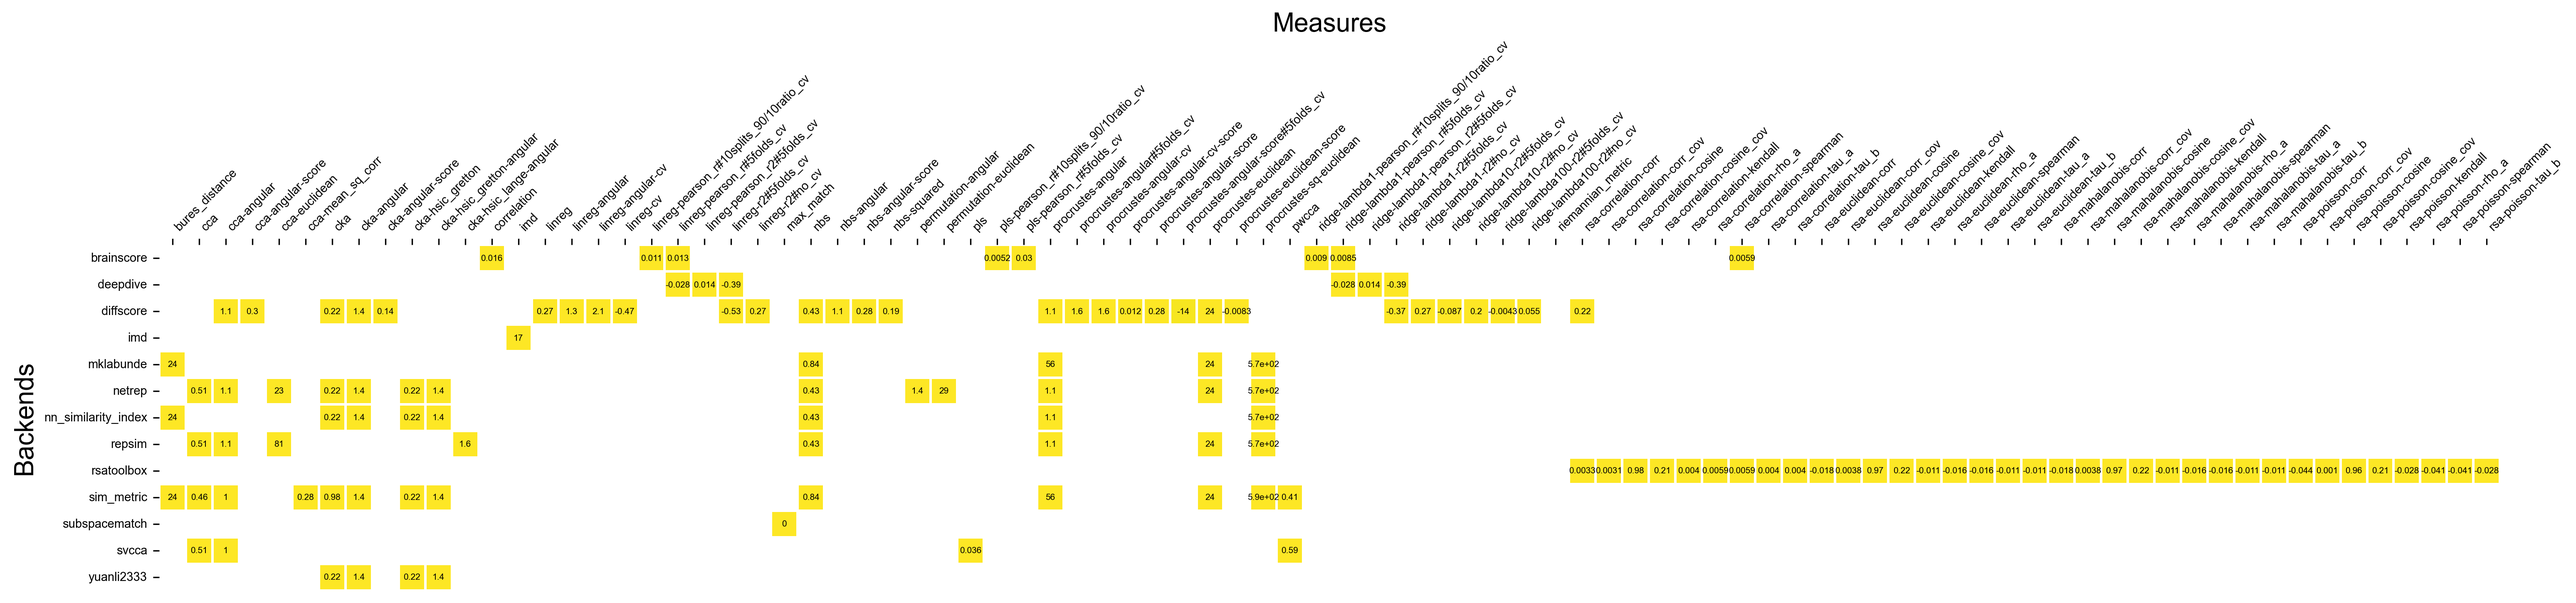
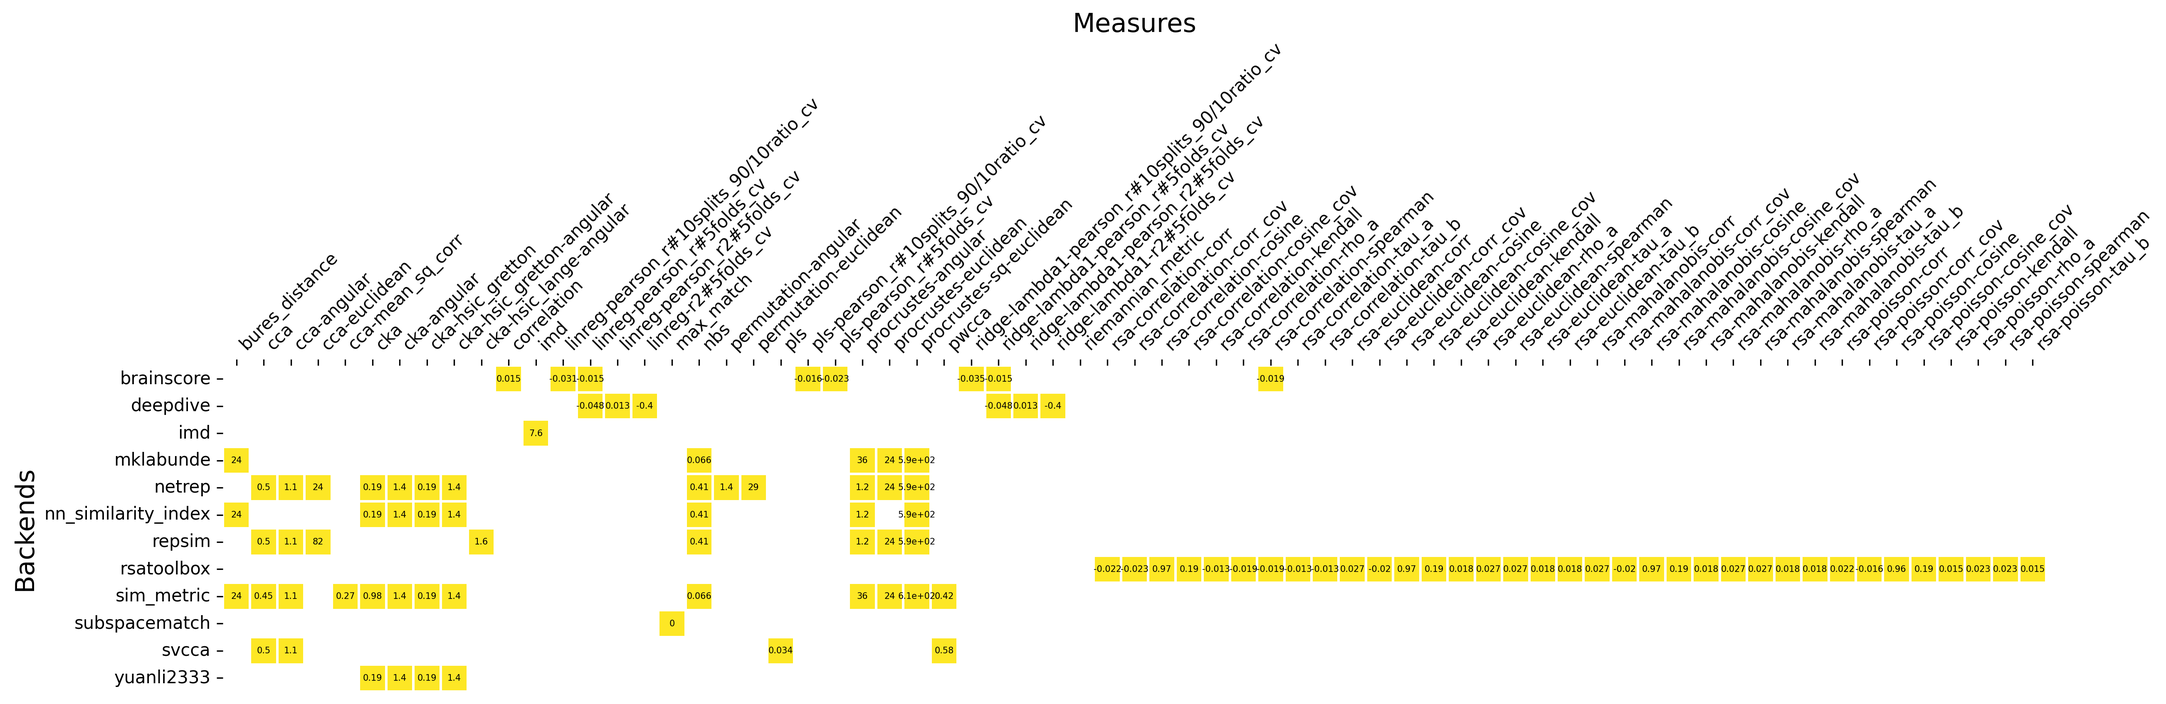
update cards

diff --git a/similarity/cards.py b/similarity/cards.py
@@ -19,23 +19,50 @@ distance_metrics = [
     "cca-angular",
 ]
 
+names = {
+    "cka": "Centered Kernel Alignment",
+    "cka-angular-score": "CKA Angular Score",
+    "procrustes-angular-score": "Procrustes Angular Score",
+    "nbs": "Normalized Bures Similarity",
+    "nbs-angular-score": "NBS Angular Score",
+    "nbs-squared": "NBS Squared",
+    "cca": "Canonical Correlation Analysis",
+    "cca-angular-score": "CCA Angular Score",
+    "rsa-correlation-corr": "Representational Similarity Analysis",
+}
 
-# default cards
-cards = defaultdict(lambda: {"props": []})
-measures = make("measure.*.*")
-for measure_id in measures.keys():
-    cards[measure_id.split(".")[-1]] = {
-        "props": []
+invariances = {
+    "cka": ["orthogonal", "isotropic-scaling"],
+    "nbs": ["orthogonal", "isotropic-scaling"],
+    "cca": ["invertible-linear"],
+}
+
+
+def make_card(measure_id):
+    props = []
+    if measure_id in score_measures:
+        props.append("score")
+    if measure_id in distance_metrics:
+        props.append("metric")
+    return {
+        "props": props,  # TODO: deprecated, backward compatibility
+        "score": measure_id in score_measures,
+        "metric": measure_id in distance_metrics,
+        "name": names.get(measure_id, measure_id),
+        "invariances": invariances.get(measure_id, []),
     }
 
-# add score prop to cards
-for measure_id in score_measures:
-    cards[measure_id]["props"].append("score")
 
-# add metric prop to cards
-for measure_id in distance_metrics:
-    cards[measure_id]["props"].append("metric")
+measures = make("measure.*.*")
+all_measures = [
+    *measures.keys(),
+    *score_measures,
+    *distance_metrics
+]
 
-# register cards
-for measure_id, card in cards.items():
+# create and register cards
+for full_id in all_measures:
+    measure_id = full_id.split(".")[-1]
+    card = make_card(measure_id)
+    # TODO: card.measure.{measure_id} instead?
     register(f"card.{measure_id}", card)

diff --git a/tests/test_registration.py b/tests/test_registration.py
@@ -120,9 +120,9 @@ def test_cards():
 
 
 if __name__ == "__main__":
-    test_measures()
+    # test_measures()
     # test_transforms()
 
-    # save_dir = Path(__file__).parent / ".."
+    save_dir = Path(__file__).parent / ".."
     # backend_consistency(plot_paper_id=False, plot_values=False, save_path=save_dir / "implemented_measures.png")
-    # backend_consistency(plot_paper_id=False, plot_values=True, save_path=save_dir / "backend_consistency.png")
+    backend_consistency(plot_paper_id=False, plot_values=True, save_path=save_dir / "backend_consistency.png")

diff --git a/similarity/registration.py b/similarity/registration.py
@@ -40,7 +40,11 @@ def make(id: IdType, *args, **kwargs):
         if len(matches) > 0:
             return {k: make(k, *args, **kwargs) for k in matches}
 
-        raise ValueError(f"'{id}' not found in registry. Use 'similarity.register' to register a new entry.")
+
+        import difflib
+        suggestion = difflib.get_close_matches(id, registry.keys(), n=1)
+
+        raise ValueError(f"`{id}` not found in registry. Did you mean: `{suggestion[0]}`? Use `similarity.register` to register a new entry.")
 
     obj = registry[id]
 
